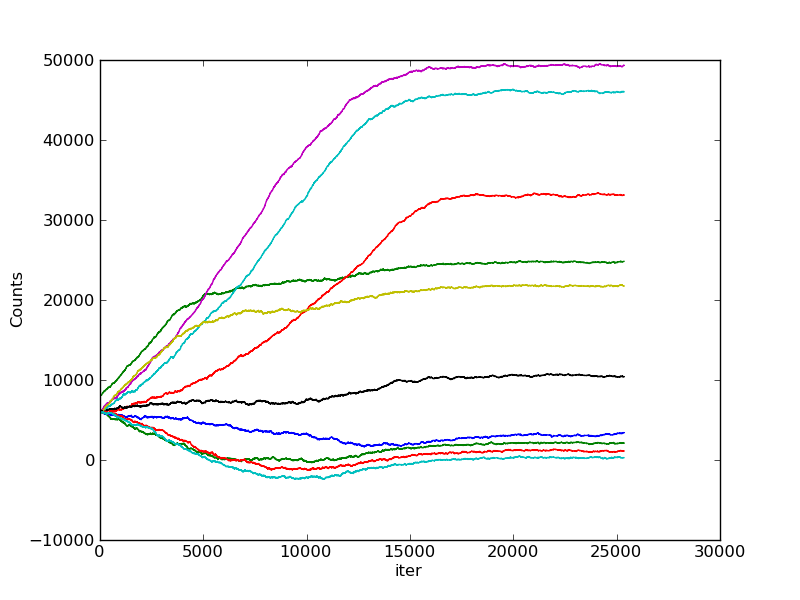
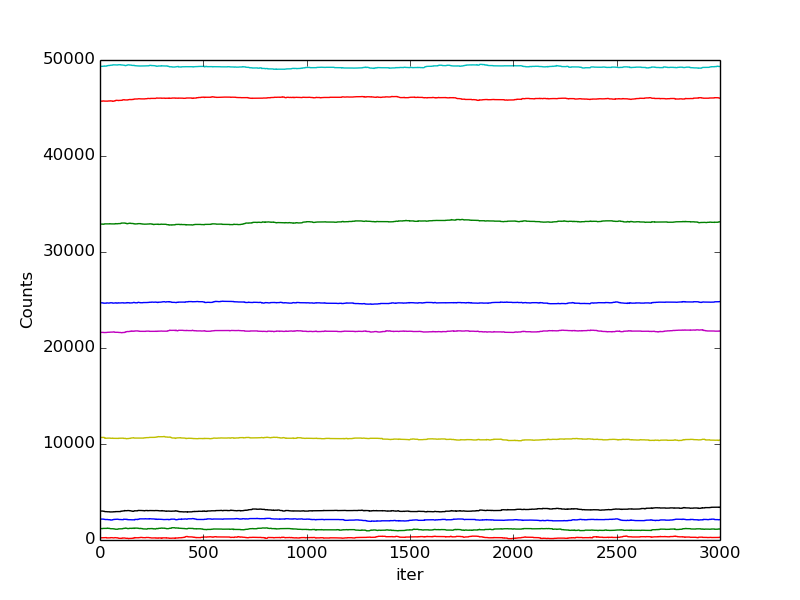
simplified, shortened run

diff --git a/galsim_iter.py b/galsim_iter.py
@@ -12,8 +12,8 @@ print 'importing'
 import sys
 sys.path.append("/global/u1/d/dbrout/FinalPhot/lib/") 
 
-import galsim
-import galsim.des
+#import galsim
+#import galsim.des
 import numpy as np
 import pyfits as pf
 from scipy import stats
@@ -155,7 +155,7 @@ class GalsimKernel:
         self.satisfactory = satisfactory
         self.trim_edges = trim_edges
 
-        self.big_fft_params = galsim.GSParams( maximum_fft_size = 10240 )
+        #self.big_fft_params = galsim.GSParams( maximum_fft_size = 10240 )
 
         # setting up a dictionary for all the images and their relevant information
         # Unique identifier (exposure_num,ccd_num)
@@ -214,7 +214,7 @@ class GalsimKernel:
         #self.pixel_scale = 0.2634
         
         #get wcs information from real data file (this doesnt change as model changes)                                                
-        self.wcss = []
+        '''self.wcss = []
         [ self.wcss.append(galsim.FitsWCS( real_img_file )) for real_img_file in self.real_img_files ]
 
         # Create supernova point source (ie. very very small gaussian)
@@ -355,7 +355,7 @@ class GalsimKernel:
         self.model_file_out = os.path.join(self.outdir,self.model_file)
 
         '''
-        Set iteration parameters
+        #Set iteration parameters
         '''
         self.chisq = []
         self.chisq.append(999999.9)
@@ -370,7 +370,7 @@ class GalsimKernel:
 
         self.cal_flux_guess = 200
         print 'Done Innitting'
-        #raw_input()
+        #raw_input()'''
         return
 
     #CURRENTLY THIS ONLY WORKS FOR THE G BAND!!
@@ -952,7 +952,7 @@ class GalsimKernel:
         sim_stamps = data['simulated_stamps']
         real_data_stamps = data['data_stamps']
         sn_flux_history = data['sn_flux_history']
-
+        '''
         print pixel_history
         print pixel_history.shape
         pixel1_vec = []
@@ -984,42 +984,38 @@ class GalsimKernel:
         P.plot(np.arange(0,len(pixel4_vec_np)),pixel4_vec_np)
         out = os.path.join(self.outdir,'pixel_history.png')
         P.savefig(out)
+        '''
         P.figure(5)
-        P.plot(np.arange(0,len(sn_flux_history[1])),sn_flux_history[1])
-        P.plot(np.arange(0,len(sn_flux_history[2])),sn_flux_history[2])
-        P.plot(np.arange(0,len(sn_flux_history[4])),sn_flux_history[4])
-        P.plot(np.arange(0,len(sn_flux_history[3])),sn_flux_history[3])
-        P.plot(np.arange(0,len(sn_flux_history[5])),sn_flux_history[5])
-        P.plot(np.arange(0,len(sn_flux_history[6])),sn_flux_history[6])
-        P.plot(np.arange(0,len(sn_flux_history[7])),sn_flux_history[7])
-        P.plot(np.arange(0,len(sn_flux_history[8])),sn_flux_history[8])
-        P.plot(np.arange(0,len(sn_flux_history[9])),sn_flux_history[9])
-        P.plot(np.arange(0,len(sn_flux_history[10])),sn_flux_history[10])
+        P.plot(np.arange(0,len(sn_flux_history[1][-3000:])),sn_flux_history[1][-3000:])
+        P.plot(np.arange(0,len(sn_flux_history[2][-3000:])),sn_flux_history[2][-3000:])
+        P.plot(np.arange(0,len(sn_flux_history[4][-3000:])),sn_flux_history[4][-3000:])
+        P.plot(np.arange(0,len(sn_flux_history[3][-3000:])),sn_flux_history[3][-3000:])
+        P.plot(np.arange(0,len(sn_flux_history[5][-3000:])),sn_flux_history[5][-3000:])
+        P.plot(np.arange(0,len(sn_flux_history[6][-3000:])),sn_flux_history[6][-3000:])
+        P.plot(np.arange(0,len(sn_flux_history[7][-3000:])),sn_flux_history[7][-3000:])
+        P.plot(np.arange(0,len(sn_flux_history[8][-3000:])),sn_flux_history[8][-3000:])
+        P.plot(np.arange(0,len(sn_flux_history[9][-3000:])),sn_flux_history[9][-3000:])
+        P.plot(np.arange(0,len(sn_flux_history[10][-3000:])),sn_flux_history[10][-3000:])
         P.xlabel('iter')
         P.ylabel('Counts')
         out = os.path.join(self.outdir,'sn_counts_history.png')
         P.savefig(out)
 
         P.figure(9)
-        P.plot(self.autocorr(sn_flux_history[1]))
-        P.plot(self.autocorr(sn_flux_history[2]))
-        P.plot(self.autocorr(sn_flux_history[3]))
-        P.plot(self.autocorr(sn_flux_history[4]))
-        P.plot(self.autocorr(sn_flux_history[5]))
-        P.plot(self.autocorr(sn_flux_history[6]))
-        P.plot(self.autocorr(sn_flux_history[7]))
-        P.plot(self.autocorr(sn_flux_history[8]))
-        P.plot(self.autocorr(sn_flux_history[9]))
-        P.plot(self.autocorr(sn_flux_history[10]))
+        P.plot(self.autocorr(sn_flux_history[1][-3000:]))
+        P.plot(self.autocorr(sn_flux_history[2][-3000:]))
+        P.plot(self.autocorr(sn_flux_history[3][-3000:]))
+        P.plot(self.autocorr(sn_flux_history[4][-3000:]))
+        P.plot(self.autocorr(sn_flux_history[5][-3000:]))
+        P.plot(self.autocorr(sn_flux_history[6][-3000:]))
+        P.plot(self.autocorr(sn_flux_history[7][-3000:]))
+        P.plot(self.autocorr(sn_flux_history[8][-3000:]))
+        P.plot(self.autocorr(sn_flux_history[9][-3000:]))
+        P.plot(self.autocorr(sn_flux_history[10][-3000:]))
         out = os.path.join(self.outdir,'autocorr.png')
         P.savefig(out)
 
-        P.figure(10)
-        P.acorr(sn_flux_history[1])
-        out = os.path.join(self.outdir,'autocorr_pylab.png')
-        P.savefig(out)
-
-        P.figure(6)
+        '''P.figure(6)
         for i in np.arange(len(self.galpos_ras)):
             P.plot(np.arange(0,len(sn_flux_history[i])),-2.5*np.log10(sn_flux_history[i])+self.image_zero_points[i])
         out = os.path.join(self.outdir,'sn_mags_history.png')
@@ -1072,7 +1068,7 @@ class GalsimKernel:
         #n, bins, patches = P.hist(pixel3_vec_np, 100, histtype='stepfilled',alpha=.3)
         #n, bins, patches = P.hist(pixel4_vec_np, 100, histtype='stepfilled',alpha=.3)
         #P.show()
-
+        '''
         return
 
     def autocorr( self, x ):
